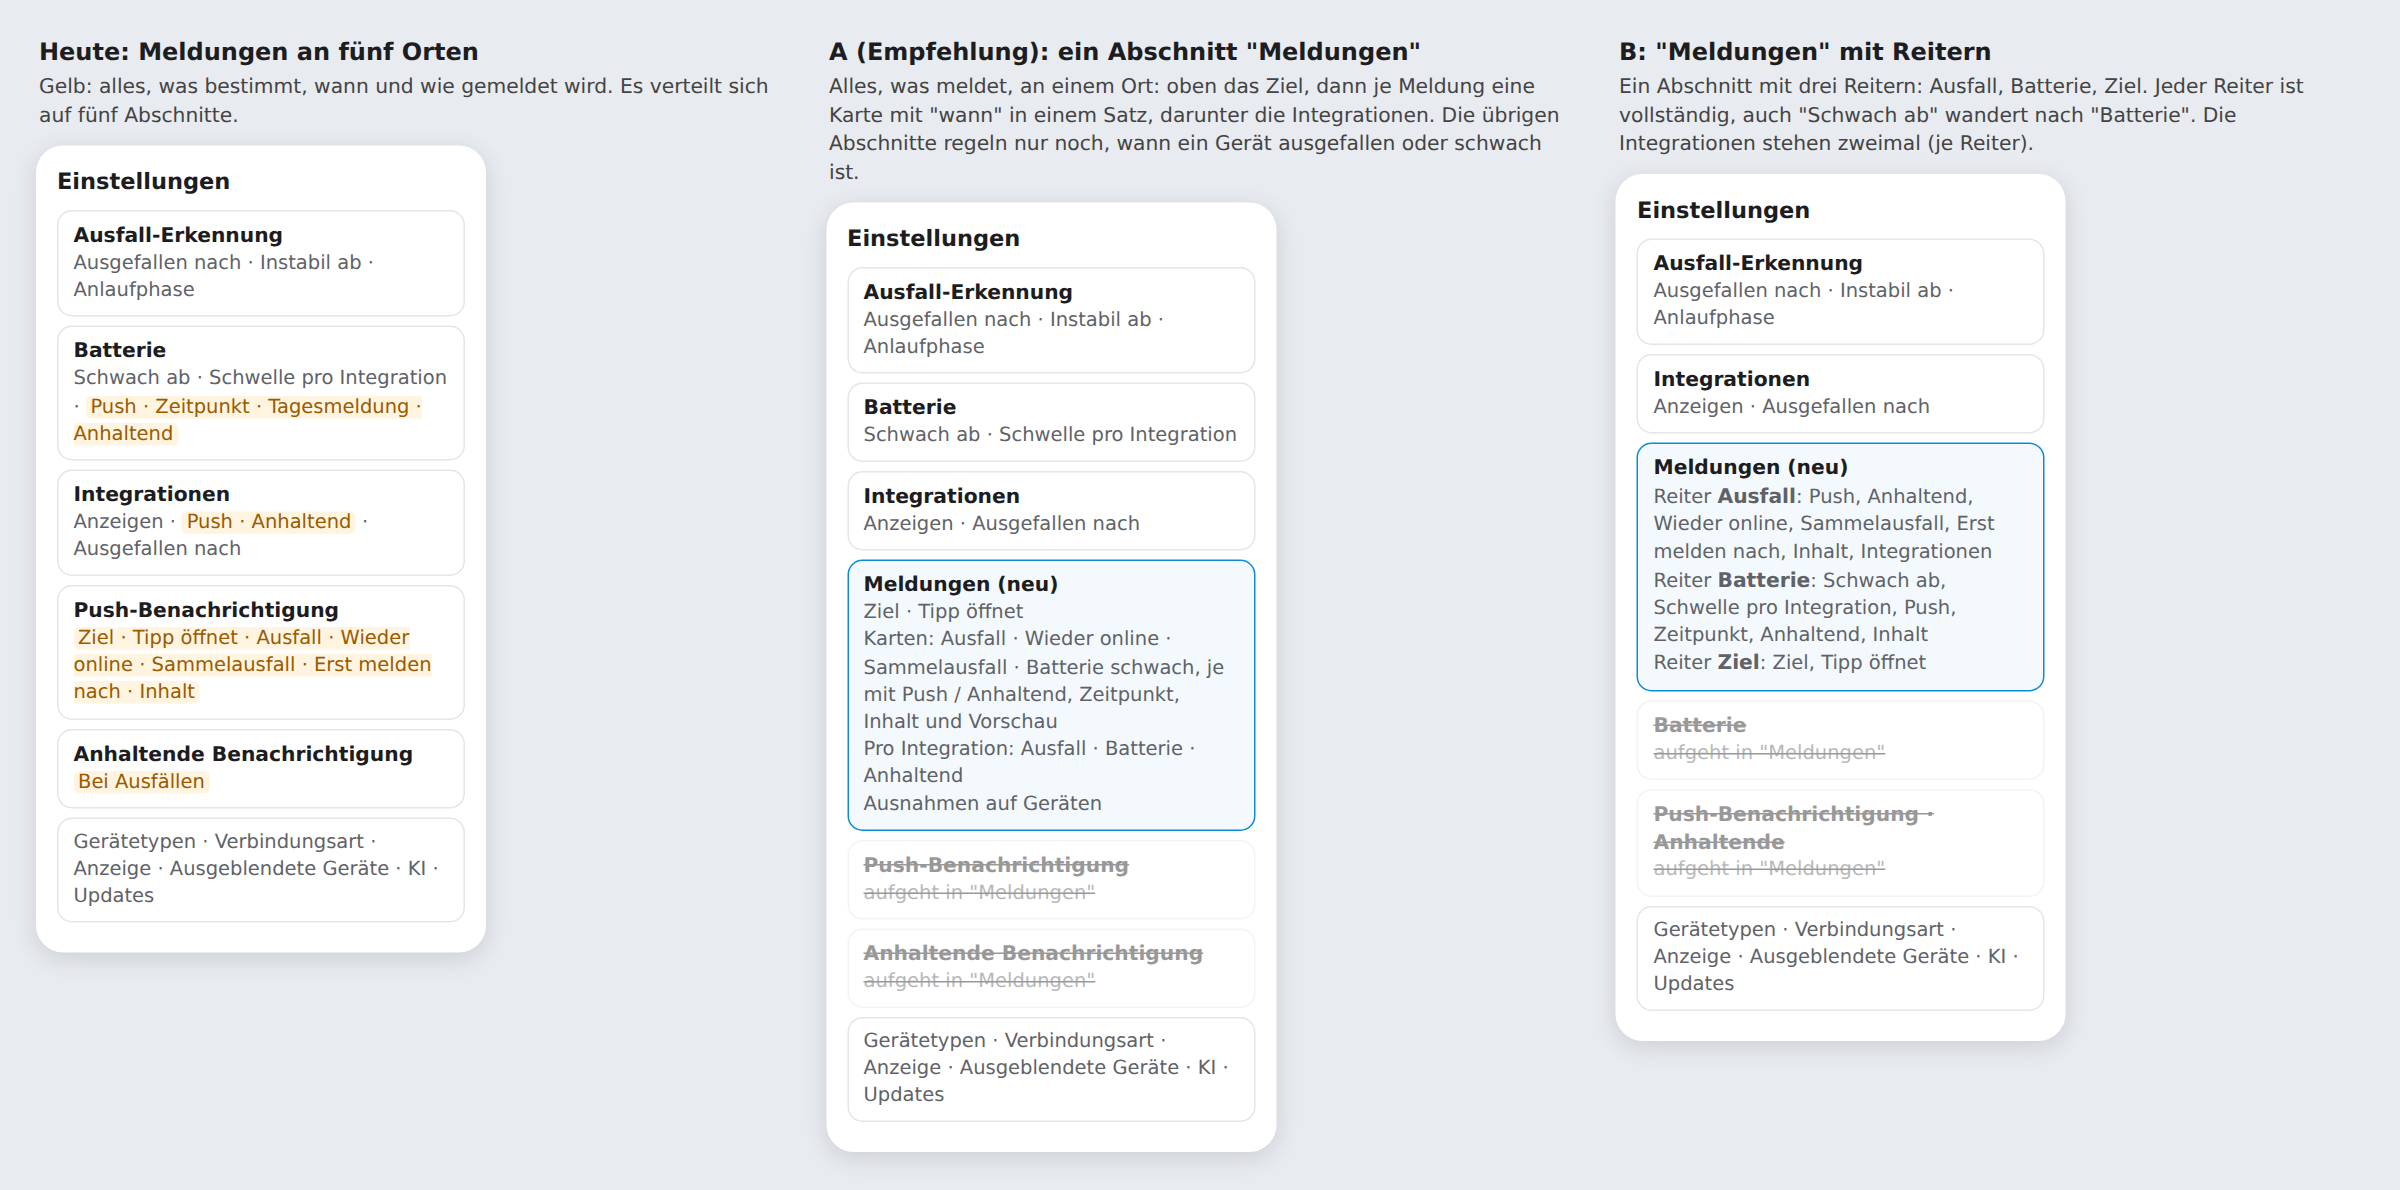
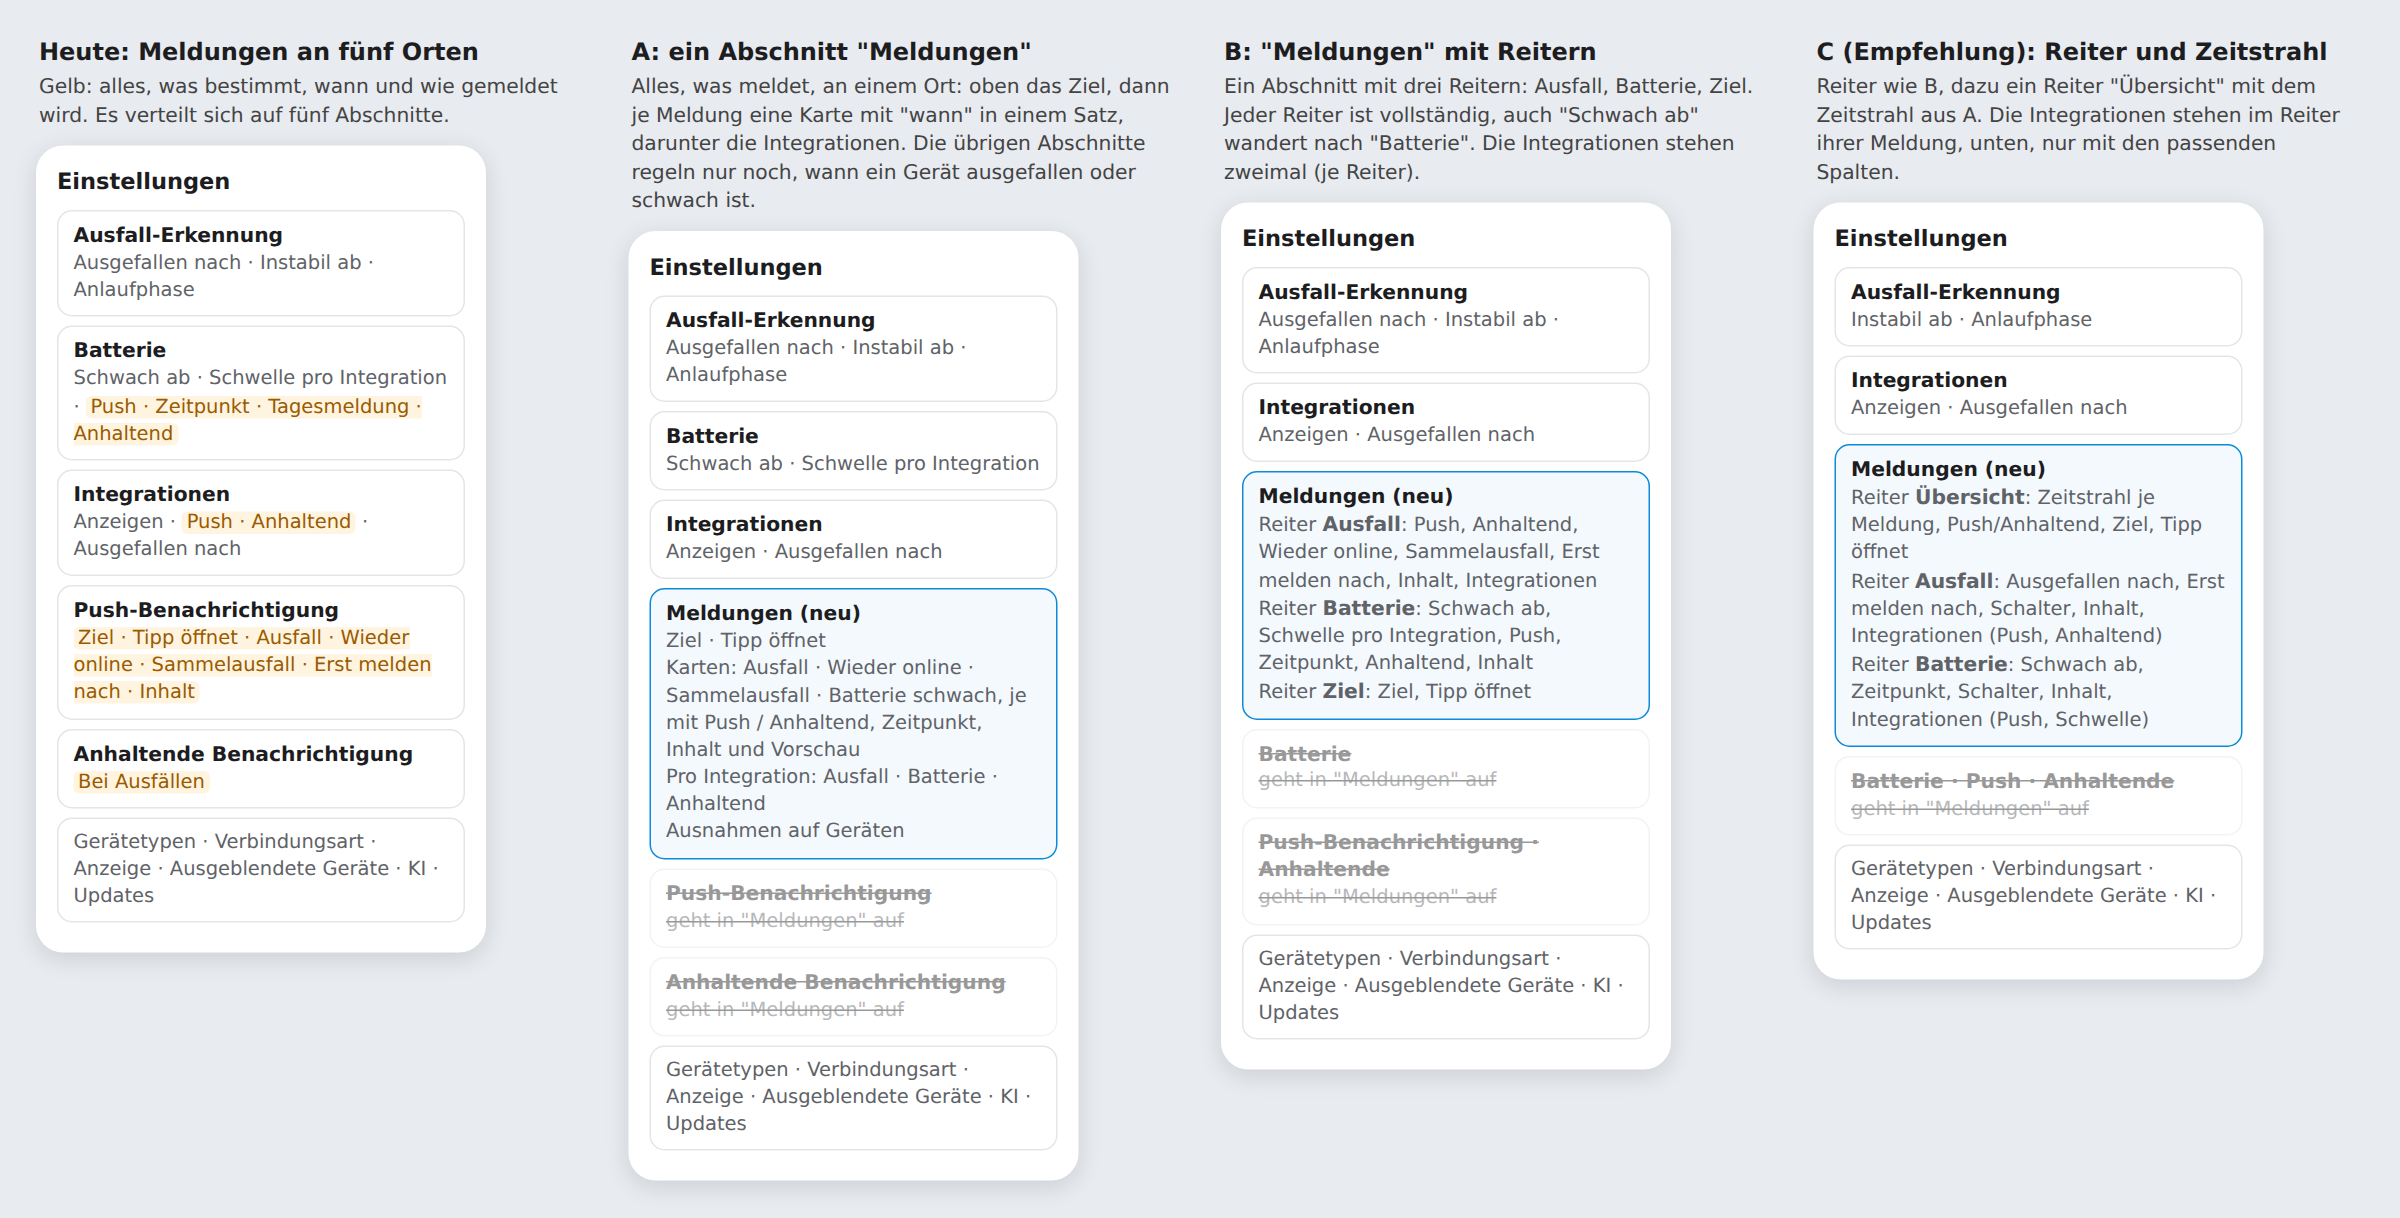
Mockups notify-v2: Variante C
- Variante C: Reiter Übersicht/Ausfall/Batterie, Zeitstrahl aus A,
  Integrationen je Reiter nur mit den passenden Spalten
- Strukturbild mit C, Reihenfolge Heute, A, B, C; Empfehlung C
- Kopf der Integrationstabelle im gestrichelten Kasten korrigiert

Claude-Session: https://claude.ai/code/session_01U1q7hu4Br2u4E6fFdEJMgU

Changed region(s): [[0.0, 0.0311, 0.9688, 0.9639], [0.0, 0.2798, 0.2188, 0.8084]]

diff --git a/docs/mockups/notify-v2/src/5.html b/docs/mockups/notify-v2/src/5.html
@@ -1,0 +1,73 @@
+<!doctype html><meta charset="utf-8"><link rel="stylesheet" href="base.css">
+<div class="row">
+<div class="col"><div class="cap">C1: Reiter "Übersicht"<small>Das Gesamtbild aus A: je Meldung ein Zeitstrahl, was wann kommt, mit den Schaltern Push und Anhaltend. Darunter Ziel und Tipp. "Ändern ›" springt in den Reiter.</small></div>
+<div class="dlg m"><div class="hd"><div class="av">⚙</div><div><h2>Einstellungen</h2><div class="s">Device Panel · gilt für alle Benutzer</div></div><div class="x">✕</div></div>
+<div class="body"><div class="sec"><div class="sh"><b>Meldungen</b><div>Ausfall nach 10 Min. · Batterie täglich 20:00</div></div>
+<div class="sb">
+<div class="tabs c"><span class="on">Übersicht</span><span>Ausfall</span><span>Batterie</span></div>
+<div class="lane"><div class="lt"><span class="ic" style="background:#fdecea;color:var(--err)">●</span>Ausfall<span class="go">Ändern ›</span></div>
+<div class="tl"><div class="bar"></div>
+<div class="mk" style="left:9%"><i></i><b>0</b>Gerät weg</div>
+<div class="mk" style="left:42%"><i></i><b>5 Min.</b>im Panel ausgefallen</div>
+<div class="mk p" style="left:78%"><i></i><b>10 Min.</b>Push "Ausgefallen"</div></div>
+<div class="chips"><span class="chip on">Push</span><span class="chip on">Anhaltend</span><span class="chip on">Wieder online</span><span class="chip on">Sammelausfall</span></div>
+<div class="note" style="margin:6px 0 0">Push für 18 von 23 Integrationen</div></div>
+<div class="lane"><div class="lt"><span class="ic" style="background:#fff4e0;color:#e08600">▮</span>Batterie schwach<span class="go">Ändern ›</span></div>
+<div class="tl b"><div class="bar"></div>
+<div class="mk" style="left:12%"><i></i><b>unter 10 %</b>im Panel rot</div>
+<div class="mk p" style="left:78%"><i></i><b>täglich 20:00</b>Push, alle schwachen</div></div>
+<div class="chips"><span class="chip on">Push</span><span class="chip">Anhaltend</span></div>
+<div class="note" style="margin:6px 0 0">Push für 15 von 17 Integrationen mit Batterie</div></div>
+<div class="hr"></div>
+<div class="ln"><span>Ziel</span><span class="sel" style="width:205px">notify.mobile_app_handy</span></div>
+<div class="ln"><span>Tipp öffnet</span><span class="sel" style="width:205px">Gerät im Panel</span></div>
+<div class="note">Ausnahmen auf Geräten: 2 mit Meldungen aus · 1 stumm bis 21:40</div>
+</div></div></div><div class="acts"><div class="btn">Schliessen</div><div class="btn pr">Speichern</div></div></div></div>
+
+<div class="col"><div class="cap">C2: Reiter "Ausfall"<small>Zeitstrahl mit beiden Zeiten zum Einstellen; "Erst melden nach" kürzer als "Ausgefallen nach" gibt einen Fehler. Unten, gestrichelt umrandet: die Integrationen, nur mit den Spalten für diese Meldung.</small></div>
+<div class="dlg m"><div class="body" style="padding-top:14px"><div class="sec"><div class="sh"><b>Meldungen</b><div>Ausfall nach 10 Min. · Batterie täglich 20:00</div></div>
+<div class="sb">
+<div class="tabs c"><span>Übersicht</span><span class="on">Ausfall</span><span>Batterie</span></div>
+<div class="tl ed"><div class="bar"></div>
+<div class="mk" style="left:9%"><i></i><b>0</b>Gerät weg</div>
+<div class="mk" style="left:42%"><i></i><b>Ausgefallen nach</b><span class="num">5<small>Min.</small></span></div>
+<div class="mk p" style="left:78%"><i></i><b>Erst melden nach</b><span class="num">10<small>Min.</small></span></div></div>
+<div class="note">Beide Zeiten zählen ab Beginn des Ausfalls, sie werden nicht addiert. "Ausgefallen nach" gilt auch für das Panel; pro Integration oder Gerät anders unter "Integrationen" bzw. im Geräte-Popup.</div>
+<div class="ln"><span>Push bei Ausfall</span><span class="sw"></span></div>
+<div class="ln"><span>Wieder online melden</span><span class="sw"></span></div>
+<div class="ln"><span>Sammelausfall zusammenfassen</span><span class="sw"></span></div>
+<div class="ln"><span>Anhaltende Benachrichtigung</span><span class="sw"></span></div>
+<div class="ln"><span>Inhalt der Meldung</span><span class="sel">Bereich, Integration, seit</span></div>
+<div class="pv" style="margin-top:4px"><div class="c"><div class="a">Home Assistant · jetzt</div><div class="tt">Ausgefallen: Bewegungsmelder Flur</div><div>Flur · Zigbee · seit 14:32</div></div></div>
+<div class="ibox"><div class="lbl"><span>Integrationen</span><span>nur Ausfall</span></div>
+<div class="it"><div class="hd2 lbl" style="grid-template-columns:30px 1fr 52px 52px"><span></span><span></span><span>Push</span><span>Anhalt.</span></div>
+<div class="tbl">
+<div class="tr" style="grid-template-columns:30px 1fr 52px 52px"><div class="ib" style="background:#c62828">PH</div><div class="nm">Philips Hue<small>24 Geräte</small></div><div class="sw"></div><div class="sw"></div></div>
+<div class="tr" style="grid-template-columns:30px 1fr 52px 52px"><div class="ib" style="background:#ad1457">ZH</div><div class="nm">Zigbee<small>15 Geräte</small></div><div class="sw"></div><div class="sw"></div></div>
+<div class="tr" style="grid-template-columns:30px 1fr 52px 52px"><div class="ib" style="background:#2e7d32">MA</div><div class="nm">Matter<small>18 Geräte</small></div><div class="sw"></div><div class="sw off"></div></div>
+<div class="tr" style="grid-template-columns:30px 1fr 52px 52px"><div class="ib" style="background:#00897b">BT</div><div class="nm">BTHome<small>6 Geräte</small></div><div class="sw off"></div><div class="sw off"></div></div>
+</div></div></div>
+</div></div></div></div></div>
+
+<div class="col"><div class="cap">C3: Reiter "Batterie"<small>Gleicher Aufbau: Zeitstrahl (Schwelle, dann Zeitpunkt), Schalter, Inhalt mit Vorschau. Unten die Integrationen mit Push und eigener Schwelle; der Abschnitt "Batterie" entfällt.</small></div>
+<div class="dlg m"><div class="body" style="padding-top:14px"><div class="sec"><div class="sh"><b>Meldungen</b><div>Ausfall nach 10 Min. · Batterie täglich 20:00</div></div>
+<div class="sb">
+<div class="tabs c"><span>Übersicht</span><span>Ausfall</span><span class="on">Batterie</span></div>
+<div class="tl b ed"><div class="bar"></div>
+<div class="mk" style="left:16%"><i></i><b>Schwach ab</b><span class="num">10<small>%</small></span></div>
+<div class="mk p" style="left:72%"><i></i><b>Push</b><span class="sel" style="display:inline-flex;padding:2px 6px;font-size:12px">täglich 20:00</span></div></div>
+<div class="note">Schwach ab gilt auch für die rote Markierung im Panel. Sofort: einmal pro Gerät, wenn es darunter fällt. Täglich: eine Sammelmeldung zur gewählten Zeit.</div>
+<div class="ln"><span>Push bei schwacher Batterie</span><span class="sw"></span></div>
+<div class="ln"><span>Tagesmeldung enthält</span><span class="sel">Alle schwachen</span></div>
+<div class="ln"><span>Anhaltende Benachrichtigung</span><span class="sw off"></span></div>
+<div class="ln"><span>Inhalt der Meldung</span><span class="sel">Stand, Bereich</span></div>
+<div class="pv" style="margin-top:4px"><div class="c"><div class="a">Home Assistant · 20:00</div><div class="tt">Batterie schwach: 2 Geräte</div><div>Rauchmelder Flur 8 % · Flur · Fensterkontakt Bad 6 % · Bad</div></div></div>
+<div class="ibox"><div class="lbl"><span>Integrationen</span><span>nur Batterie</span></div>
+<div class="it"><div class="hd2 lbl" style="grid-template-columns:30px 1fr 52px 92px"><span></span><span></span><span>Push</span><span>Schwach ab</span></div>
+<div class="tbl">
+<div class="tr" style="grid-template-columns:30px 1fr 52px 92px"><div class="ib" style="background:#c62828">PH</div><div class="nm">Philips Hue<small>8 mit Batterie</small></div><div class="sw"></div><span class="sel">Global</span></div>
+<div class="tr" style="grid-template-columns:30px 1fr 52px 92px"><div class="ib" style="background:#ad1457">ZH</div><div class="nm">Zigbee<small>11 mit Batterie</small></div><div class="sw"></div><span class="sel own">25 %</span></div>
+<div class="tr" style="grid-template-columns:30px 1fr 52px 92px"><div class="ib" style="background:#00897b">BT</div><div class="nm">BTHome<small>6 mit Batterie</small></div><div class="sw"></div><span class="sel own">Aus</span></div>
+</div></div></div>
+</div></div></div></div></div>
+</div>

diff --git a/docs/mockups/notify-v2/src/1.html b/docs/mockups/notify-v2/src/1.html
@@ -10,14 +10,14 @@
 <div class="s"><span>Gerätetypen · Verbindungsart · Anzeige · Ausgeblendete Geräte · KI · Updates</span></div>
 </div></div>
 
-<div class="col"><div class="cap">A (Empfehlung): ein Abschnitt "Meldungen"<small>Alles, was meldet, an einem Ort: oben das Ziel, dann je Meldung eine Karte mit "wann" in einem Satz, darunter die Integrationen. Die übrigen Abschnitte regeln nur noch, wann ein Gerät ausgefallen oder schwach ist.</small></div>
+<div class="col"><div class="cap">A: ein Abschnitt "Meldungen"<small>Alles, was meldet, an einem Ort: oben das Ziel, dann je Meldung eine Karte mit "wann" in einem Satz, darunter die Integrationen. Die übrigen Abschnitte regeln nur noch, wann ein Gerät ausgefallen oder schwach ist.</small></div>
 <div class="map"><h4>Einstellungen</h4>
 <div class="s"><b>Ausfall-Erkennung</b><span>Ausgefallen nach · Instabil ab · Anlaufphase</span></div>
 <div class="s"><b>Batterie</b><span>Schwach ab · Schwelle pro Integration</span></div>
 <div class="s"><b>Integrationen</b><span>Anzeigen · Ausgefallen nach</span></div>
 <div class="s new"><b>Meldungen (neu)</b><span>Ziel · Tipp öffnet<br>Karten: Ausfall · Wieder online · Sammelausfall · Batterie schwach, je mit Push / Anhaltend, Zeitpunkt, Inhalt und Vorschau<br>Pro Integration: Ausfall · Batterie · Anhaltend<br>Ausnahmen auf Geräten</span></div>
-<div class="s gone"><b>Push-Benachrichtigung</b><span>aufgeht in "Meldungen"</span></div>
-<div class="s gone"><b>Anhaltende Benachrichtigung</b><span>aufgeht in "Meldungen"</span></div>
+<div class="s gone"><b>Push-Benachrichtigung</b><span>geht in "Meldungen" auf</span></div>
+<div class="s gone"><b>Anhaltende Benachrichtigung</b><span>geht in "Meldungen" auf</span></div>
 <div class="s"><span>Gerätetypen · Verbindungsart · Anzeige · Ausgeblendete Geräte · KI · Updates</span></div>
 </div></div>
 
@@ -26,8 +26,17 @@
 <div class="s"><b>Ausfall-Erkennung</b><span>Ausgefallen nach · Instabil ab · Anlaufphase</span></div>
 <div class="s"><b>Integrationen</b><span>Anzeigen · Ausgefallen nach</span></div>
 <div class="s new"><b>Meldungen (neu)</b><span>Reiter <b style="display:inline">Ausfall</b>: Push, Anhaltend, Wieder online, Sammelausfall, Erst melden nach, Inhalt, Integrationen<br>Reiter <b style="display:inline">Batterie</b>: Schwach ab, Schwelle pro Integration, Push, Zeitpunkt, Anhaltend, Inhalt<br>Reiter <b style="display:inline">Ziel</b>: Ziel, Tipp öffnet</span></div>
-<div class="s gone"><b>Batterie</b><span>aufgeht in "Meldungen"</span></div>
-<div class="s gone"><b>Push-Benachrichtigung · Anhaltende</b><span>aufgeht in "Meldungen"</span></div>
+<div class="s gone"><b>Batterie</b><span>geht in "Meldungen" auf</span></div>
+<div class="s gone"><b>Push-Benachrichtigung · Anhaltende</b><span>geht in "Meldungen" auf</span></div>
+<div class="s"><span>Gerätetypen · Verbindungsart · Anzeige · Ausgeblendete Geräte · KI · Updates</span></div>
+</div></div>
+
+<div class="col"><div class="cap">C (Empfehlung): Reiter und Zeitstrahl<small>Reiter wie B, dazu ein Reiter "Übersicht" mit dem Zeitstrahl aus A. Die Integrationen stehen im Reiter ihrer Meldung, unten, nur mit den passenden Spalten.</small></div>
+<div class="map"><h4>Einstellungen</h4>
+<div class="s"><b>Ausfall-Erkennung</b><span>Instabil ab · Anlaufphase</span></div>
+<div class="s"><b>Integrationen</b><span>Anzeigen · Ausgefallen nach</span></div>
+<div class="s new"><b>Meldungen (neu)</b><span>Reiter <b style="display:inline">Übersicht</b>: Zeitstrahl je Meldung, Push/Anhaltend, Ziel, Tipp öffnet<br>Reiter <b style="display:inline">Ausfall</b>: Ausgefallen nach, Erst melden nach, Schalter, Inhalt, Integrationen (Push, Anhaltend)<br>Reiter <b style="display:inline">Batterie</b>: Schwach ab, Zeitpunkt, Schalter, Inhalt, Integrationen (Push, Schwelle)</span></div>
+<div class="s gone"><b>Batterie · Push · Anhaltende</b><span>geht in "Meldungen" auf</span></div>
 <div class="s"><span>Gerätetypen · Verbindungsart · Anzeige · Ausgeblendete Geräte · KI · Updates</span></div>
 </div></div>
 </div>

diff --git a/docs/mockups/notify-v2/src/base.css b/docs/mockups/notify-v2/src/base.css
@@ -105,3 +105,20 @@ body { margin: 0; padding: 24px; background: #e8ebf0; font: 15px/1.4 Roboto, "Se
 .map .s em { font-style: normal; background: #fff4e0; color: #9a5b00; border-radius: 4px; padding: 0 3px; }
 .map .s.new { border-color: var(--p); background: #f4f9fe; }
 .map .s.gone { opacity: .45; text-decoration: line-through; }
+
+/* Variante C */
+.lane { border: 1px solid var(--div); border-radius: 14px; background: #fff; padding: 10px 12px 8px; margin: 8px 0; }
+.lane .lt { display: flex; align-items: center; gap: 8px; font-weight: 600; font-size: 14.5px; }
+.lane .lt .ic { width: 26px; height: 26px; border-radius: 8px; display: grid; place-items: center; font-size: 13px; }
+.lane .lt .go { margin-left: auto; color: var(--p); font-weight: 500; font-size: 12.5px; }
+.lane .chips { display: flex; gap: 6px; flex-wrap: wrap; margin-top: 4px; }
+.tl.b .bar { background: linear-gradient(90deg, #ffe2b3, #f59e0b); }
+.tl.b .mk i { border-color: #f59e0b; }
+.tl.g .mk.on i { border-color: var(--ok); background: var(--ok); }
+.tl .mk.p.off i { background: #fff; border-color: #c4c7cc; }
+.tl .mk .num { display: inline-block; min-width: 0; padding: 2px 6px; font-size: 12px; margin-top: 2px; }
+.tl.ed { height: 104px; }
+.tabs.c span { font-size: 13px; }
+.ibox { border: 1px dashed #b9c6d3; border-radius: 12px; padding: 8px 10px 4px; margin-top: 10px; background: #fbfcfe; }
+.ibox > .lbl { display: flex; justify-content: space-between; }
+.ibox > .lbl span:last-child { text-transform: none; letter-spacing: 0; color: var(--t3); font-weight: 400; }

diff --git a/docs/mockups/notify-v2/README.md b/docs/mockups/notify-v2/README.md
@@ -10,9 +10,10 @@ Panels, Handy-Breite, erfundene Daten.
 
 | Bild | Inhalt |
 | --- | --- |
-| `1-struktur.png` | Heute (Meldungen an fünf Orten) und die Aufteilung nach A und B |
-| `2-variante-a.png` | **A (Empfehlung):** Abschnitt "Meldungen" mit Ziel, je Meldung einer Karte (was, wann in einem Satz, Push/Anhaltend), aufgeklappt mit Zeitstrahl, Zeit, Inhalt und Vorschau; darunter "Pro Integration" mit Ausfall, Batterie, Anhaltend. Schwellen bleiben in "Ausfall-Erkennung" und "Batterie" |
+| `1-struktur.png` | Heute (Meldungen an fünf Orten) und die Aufteilung nach A, B und C |
+| `2-variante-a.png` | A: Abschnitt "Meldungen" mit Ziel, je Meldung einer Karte (was, wann in einem Satz, Push/Anhaltend), aufgeklappt mit Zeitstrahl, Zeit, Inhalt und Vorschau; darunter "Pro Integration" mit Ausfall, Batterie, Anhaltend. Schwellen bleiben in "Ausfall-Erkennung" und "Batterie" |
 | `3-variante-b.png` | B: Abschnitt "Meldungen" mit Reitern Ausfall, Batterie, Ziel; jeder Reiter vollständig, Integrationen je Reiter |
+| `5-variante-c.png` | **C (Empfehlung):** Reiter wie B, dazu Reiter "Übersicht" mit dem Zeitstrahl aus A (je Meldung: was wann kommt, Push/Anhaltend, Ziel, Tipp öffnet). Reiter "Ausfall" und "Batterie" mit einstellbarem Zeitstrahl ("Ausgefallen nach" und "Erst melden nach" bzw. "Schwach ab" und Zeitpunkt), Schaltern, Inhalt, Vorschau; unten gestrichelt die Integrationen nur mit den Spalten dieser Meldung. Abschnitt "Batterie" entfällt, "Ausfall-Erkennung" behält Instabil ab und Anlaufphase |
 | `4-batterie-meldung.png` | Batterie-Meldung fest mit Vorschau oder anpassbar wie die Ausfall-Meldung (Empfehlung) |
 
 Darin auch Aufgabe "Erst melden nach nicht kürzer als Ausgefallen nach"
